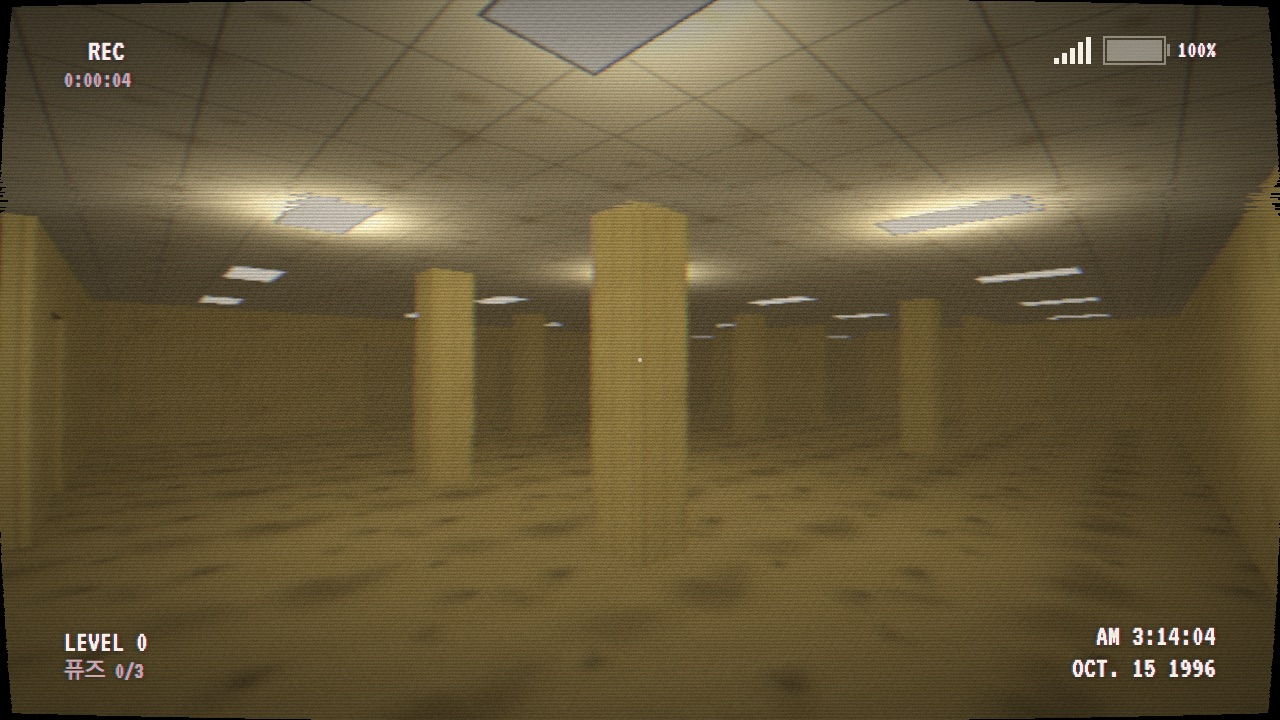
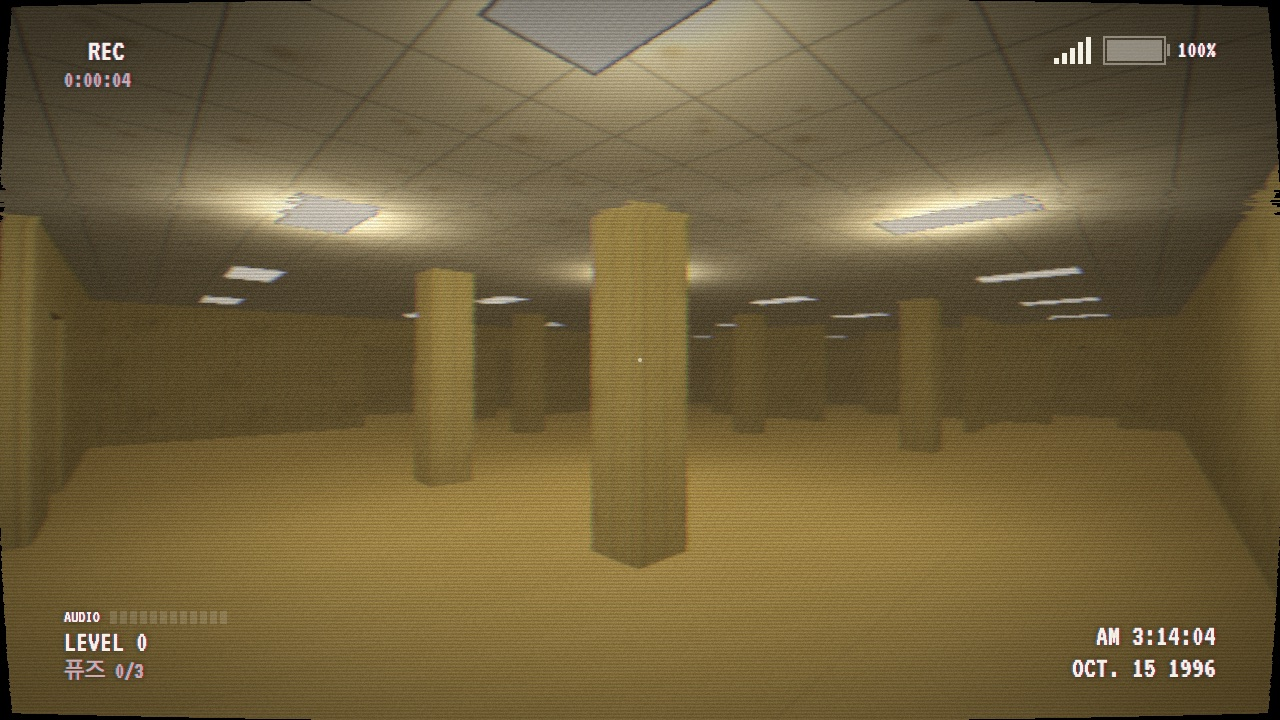
LEVEL 0 바닥을 얼룩 없는 노란 장판으로
- 카펫 텍스처를 고른 노란 장판(고운 결, 희미한 이음매)으로 교체하고 은은한 광택을 넣음
- 장판 발소리, 관련 문구(쪽지·테이프 설명·하운드 등장 메시지·README) 수정
- 테이프 0 표지, 링크 미리보기 썸네일, 메뉴·로비 스크린샷 다시 촬영

diff --git a/src/themes.js b/src/themes.js
@@ -18,9 +18,10 @@ export const LEVELS = [
     fog: { color: 0x4a3f1c, near: 3, far: 34 },
     ambient: { sky: 0xfff0b0, ground: 0x9a8a58, intensity: 1.15 },
     exposure: 1.0,
-    textures: { wall: 'wallpaper', floor: 'carpet', ceil: 'ceiling' },
+    textures: { wall: 'wallpaper', floor: 'vinyl', ceil: 'ceiling' },
+    floorShine: 18, // 장판은 형광등 빛을 은은하게 반사한다
     uv: { wall: 0.5, floor: 0.5, ceil: 1 / 1.2 },
-    surface: 'carpet',
+    surface: 'vinyl',
     furniture: 'none',
     goal: { item: 'fuse', name: '퓨즈', count: 3 },
     pickups: { battery: 2, water: 2 },
@@ -41,11 +42,11 @@ export const LEVELS = [
     tape: {
       label: '로비 — 96.10.15',
       cover: 'assets/tape-0.jpg',
-      desc: '젖은 카펫과 끝없이 이어지는 노란 방. 비상구 전원을 켤 퓨즈 3개.',
+      desc: '누런 장판과 끝없이 이어지는 노란 방. 비상구 전원을 켤 퓨즈 3개.',
       threat: '하운드 — 눈이 없다. 소리로 사냥한다',
     },
     notes: [
-      '1996. 10. 14\n\n보일러실 벽에 손을 짚었는데 그대로 빠져버렸다.\n여기 카펫은 늘 젖어 있다. 곰팡이 냄새가 난다.\n형광등 소리가 머리를 울린다.',
+      '1996. 10. 14\n\n보일러실 벽에 손을 짚었는데 그대로 빠져버렸다.\n여기 장판은 늘 눅눅하다. 발바닥이 쩍쩍 달라붙는다.\n형광등 소리가 머리를 울린다.',
       '형광등이 깜빡이기 시작하면 그 자리에서 멀어져라.\n그게 근처에 있다는 뜻이다.\n\n불빛은 그걸 싫어하는 게 아니다.\n그게 지나가면 불이 버티질 못하는 거다.',
       '비상구 옆 배전함에 퓨즈 세 개.\n전원이 들어오면 문이 열린다.\n\n나는 두 개밖에 못 찾았다.\n세 번째를 찾으러 가는 길이다.\n이 쪽지를 보면 나보다 빨리 움직여.',
       '뛰지 마. 되도록 걷지도 마.\n그건 눈이 없다. 대신 귀가 아주 좋다.\n\n가까이서 숨소리가 들리면\n웅크리고, 움직이지 말고, 숨을 참아라.',

diff --git a/src/textures.js b/src/textures.js
@@ -89,20 +89,23 @@ function wallpaper() {
   return c;
 }
 
-function carpet() {
+// 노란 장판: 얼룩 없이 고른 색, 아주 고운 표면 결, 장판 이음매만 희미하게 (2m 한 장)
+function vinyl() {
   const S = 512;
   const [c, x] = canvas(S, S);
-  x.fillStyle = '#9a8748';
+  x.fillStyle = '#d6b55a';
   x.fillRect(0, 0, S, S);
-  // 카펫 섬유 느낌의 짧은 선
-  for (let i = 0; i < 16000; i++) {
-    const v = rng.next();
-    x.fillStyle = v > 0.5 ? 'rgba(190,170,100,0.25)' : 'rgba(70,58,25,0.25)';
-    x.fillRect(rng.next() * S, rng.next() * S, 1 + rng.next() * 2, 1);
+  // 한지처럼 고운 결 (거의 보이지 않을 정도)
+  for (let i = 0; i < 9000; i++) {
+    x.fillStyle = rng.next() > 0.5 ? 'rgba(240,215,130,0.12)' : 'rgba(150,120,50,0.1)';
+    x.fillRect(rng.next() * S, rng.next() * S, 1 + rng.next() * 4, 1);
   }
-  stains(x, S, S, 6, '60,50,20', 120, 0.1);
-  stains(x, S, S, 4, '40,36,18', 60, 0.12);
-  grain(x, S, S, 30);
+  grain(x, S, S, 6);
+  // 장판 이음매
+  x.fillStyle = 'rgba(120,95,40,0.35)';
+  x.fillRect(0, 0, 2, S);
+  x.fillStyle = 'rgba(255,240,190,0.25)';
+  x.fillRect(2, 0, 1, S);
   return c;
 }
 
@@ -1055,7 +1058,7 @@ export function makeTextures(renderer) {
   const a = Math.min(8, renderer.capabilities.getMaxAnisotropy());
   return {
     wallpaper: toTex(wallpaper(), a),
-    carpet: toTex(carpet(), a),
+    vinyl: toTex(vinyl(), a),
     ceiling: toTex(ceiling(), a),
     panel: toTex(panel(), a, { repeat: false }),
     cinder: toTex(cinder(), a),

diff --git a/src/audio.js b/src/audio.js
@@ -486,8 +486,11 @@ export class AudioEngine {
     const t = this.ctx.currentTime;
     const v = 0.08 + loud * 0.22;
     const out = this.sfx;
-    if (surface === 'carpet') {
-      this._noiseHit(out, t, { freq: 380 + Math.random() * 120, gain: v, decay: 0.09 });
+    if (surface === 'vinyl') {
+      // 장판: 발바닥이 쩍 달라붙었다 떨어지는 소리
+      this._noiseHit(out, t, { freq: 900 + Math.random() * 200, type: 'bandpass', q: 1.1, gain: v * 0.9, decay: 0.05 });
+      this._noiseHit(out, t + 0.04, { freq: 2400 + Math.random() * 400, type: 'bandpass', q: 3, gain: v * 0.3, decay: 0.025 });
+      this._tone(out, t, { f0: 110 + Math.random() * 20, f1: 60, gain: v * 0.35, decay: 0.06 });
     } else if (surface === 'water') {
       // 첨벙: 물을 가르는 쉭 소리 + 물방울 튀는 소리
       this._noiseHit(out, t, { freq: 700 + Math.random() * 300, type: 'bandpass', q: 0.7, gain: v * 1.3, decay: 0.22 + loud * 0.15 });
@@ -524,7 +527,7 @@ export class AudioEngine {
       return;
     }
     if (this.kind === 'hound') {
-      // 맨살이 카펫을 짚는 둔탁한 소리와 손톱 긁는 소리
+      // 맨살이 바닥을 짚는 둔탁한 소리와 손톱 긁는 소리
       const v = chasing ? 0.9 : 0.4;
       this._noiseHit(this.entityBus, t, { freq: 260, gain: v, decay: chasing ? 0.09 : 0.12 });
       this._noiseHit(this.entityBus, t + 0.03, { freq: 1500, type: 'bandpass', q: 2, gain: v * 0.25, decay: 0.03 });

diff --git a/src/level.js b/src/level.js
@@ -530,7 +530,10 @@ export class Level {
       floor.rotateX(-Math.PI / 2);
       floor.translate((W * S) / 2, 0, (H * S) / 2);
       worldUV(floor, t.uv.floor, t.uv.floor);
-      this.group.add(new THREE.Mesh(floor, new THREE.MeshLambertMaterial({ map: tex[t.textures.floor] })));
+      const floorMat = t.floorShine
+        ? new THREE.MeshPhongMaterial({ map: tex[t.textures.floor], shininess: t.floorShine, specular: 0x6e6448 })
+        : new THREE.MeshLambertMaterial({ map: tex[t.textures.floor] });
+      this.group.add(new THREE.Mesh(floor, floorMat));
     }
     const ceil = new THREE.PlaneGeometry(W * S, H * S);
     ceil.rotateX(Math.PI / 2);

diff --git a/src/entities/hound.js b/src/entities/hound.js
@@ -80,7 +80,7 @@ function limb(profile) {
 
 export class Hound extends EntityBase {
   get awakeMessage() {
-    return '…어딘가에서 무언가가 카펫을 긁으며 기어 다니기 시작했다';
+    return '…어딘가에서 무언가가 장판을 긁으며 기어 다니기 시작했다';
   }
 
   _build(tex) {

diff --git a/README.md b/README.md
@@ -21,10 +21,10 @@
 
 ### LEVEL 0 · 로비
 
-젖은 카펫, 누렇게 바랜 벽지, 머리를 울리는 형광등 소리.
+누런 장판, 누렇게 바랜 벽지, 머리를 울리는 형광등 소리.
 끝없이 이어지는 텅 빈 방 어딘가에 비상구 전원을 켤 **퓨즈 3개**가 흩어져 있습니다.
 
-멀리서 무언가 카펫을 긁으며 기어 다니는 소리가 들립니다.
+멀리서 무언가 장판을 긁으며 기어 다니는 소리가 들립니다.
 
 > 뛰지 마. 뛰면 들린다.
 
